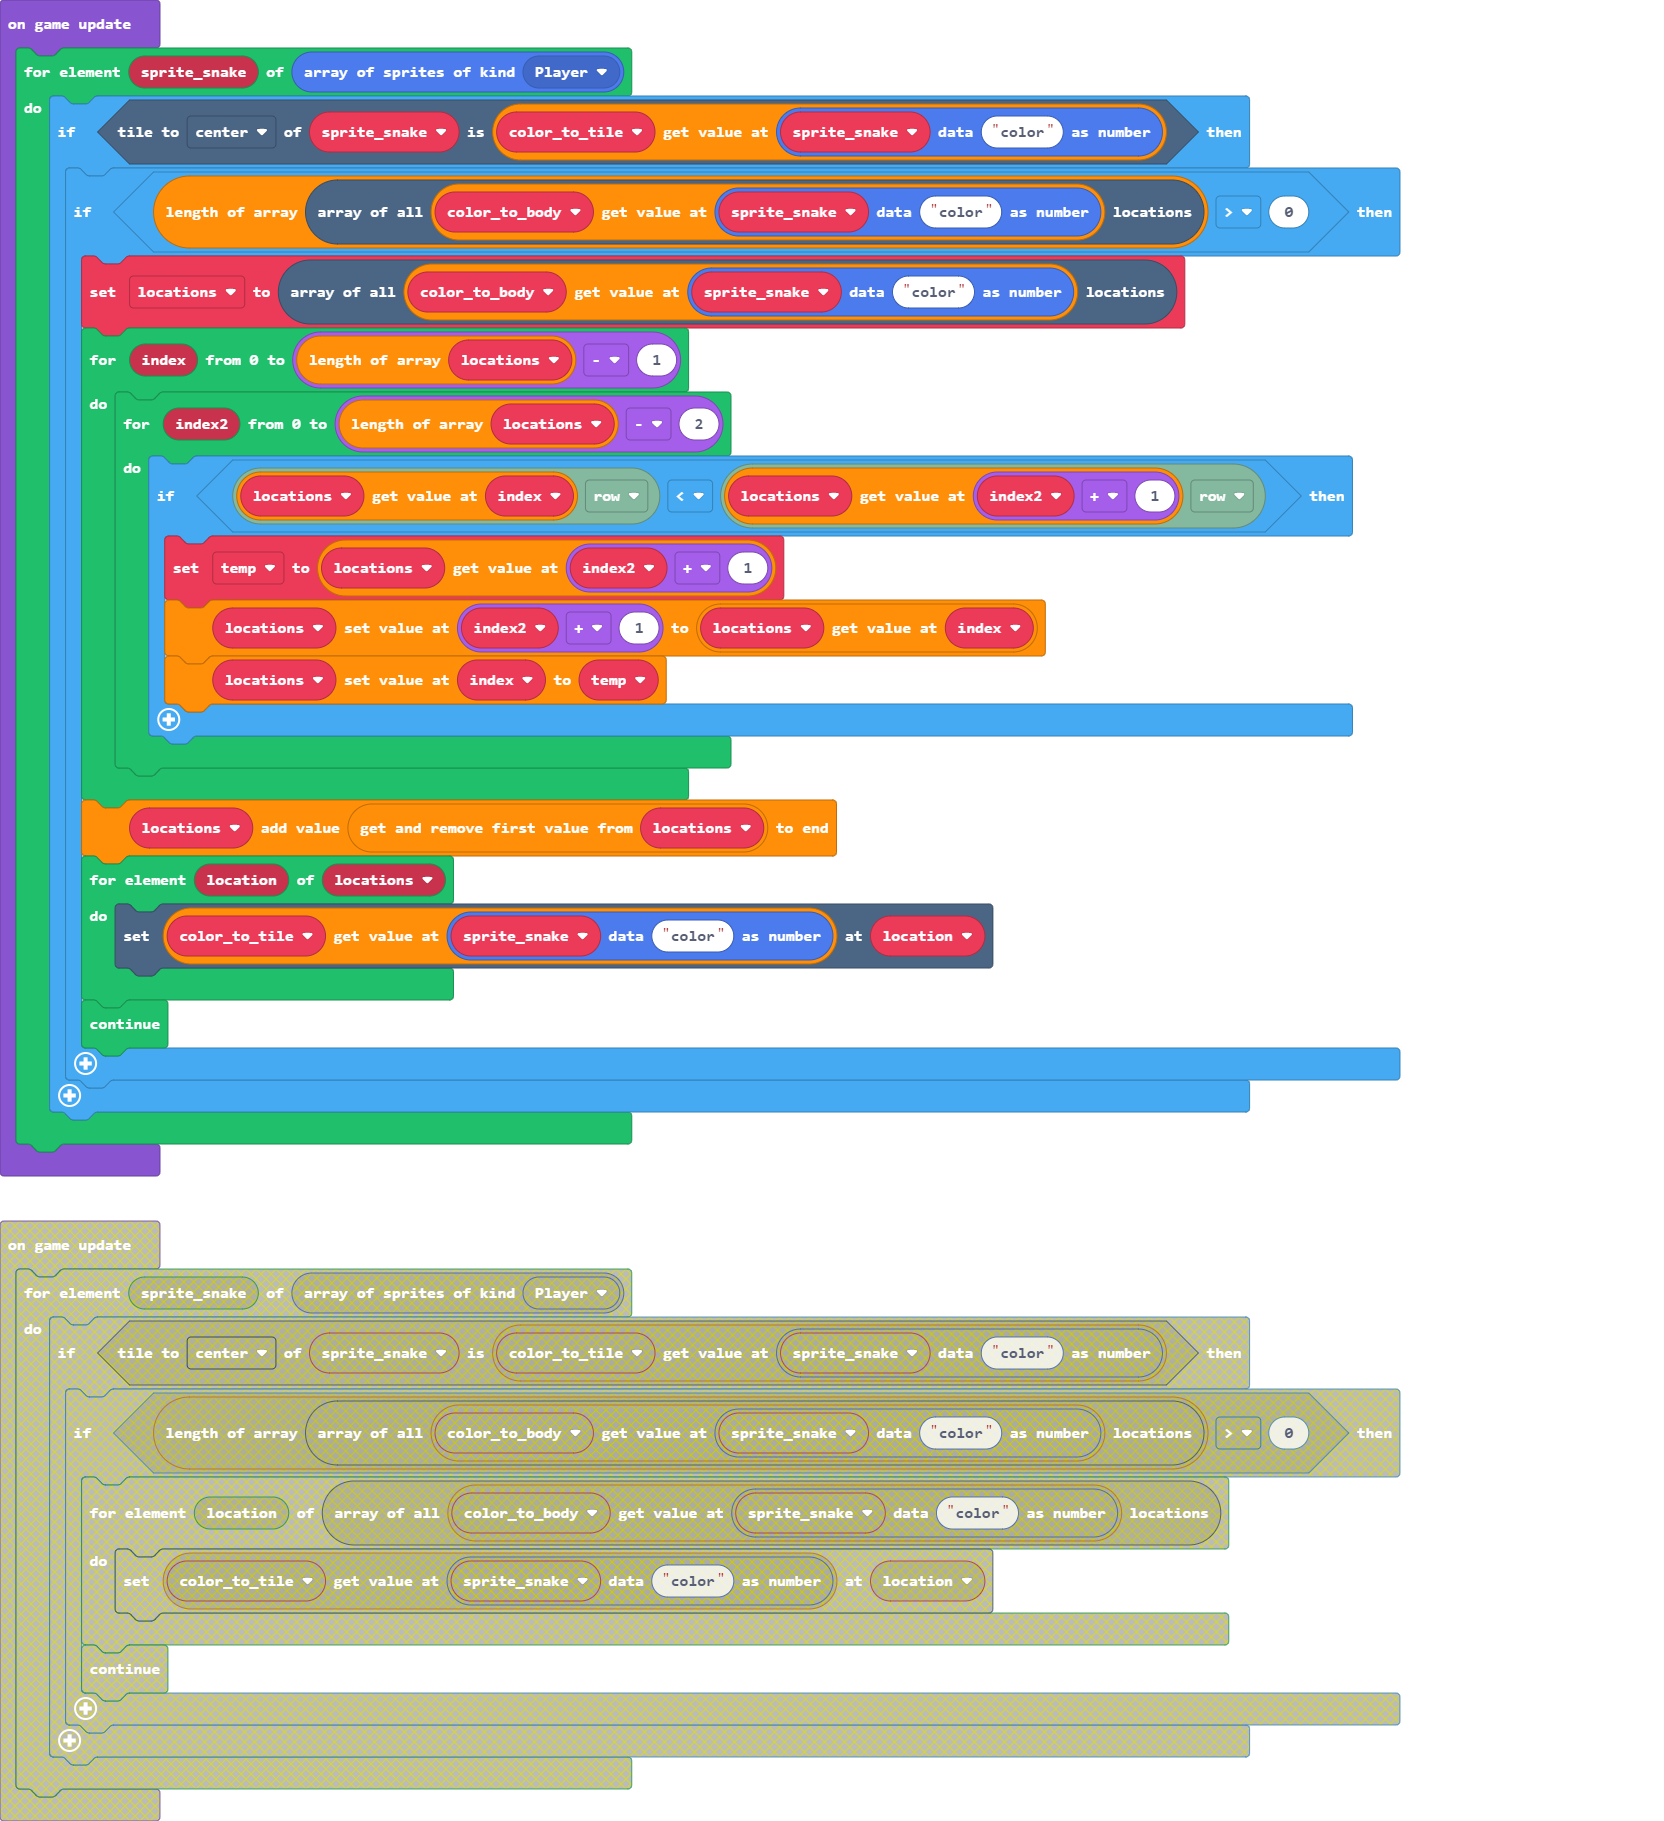
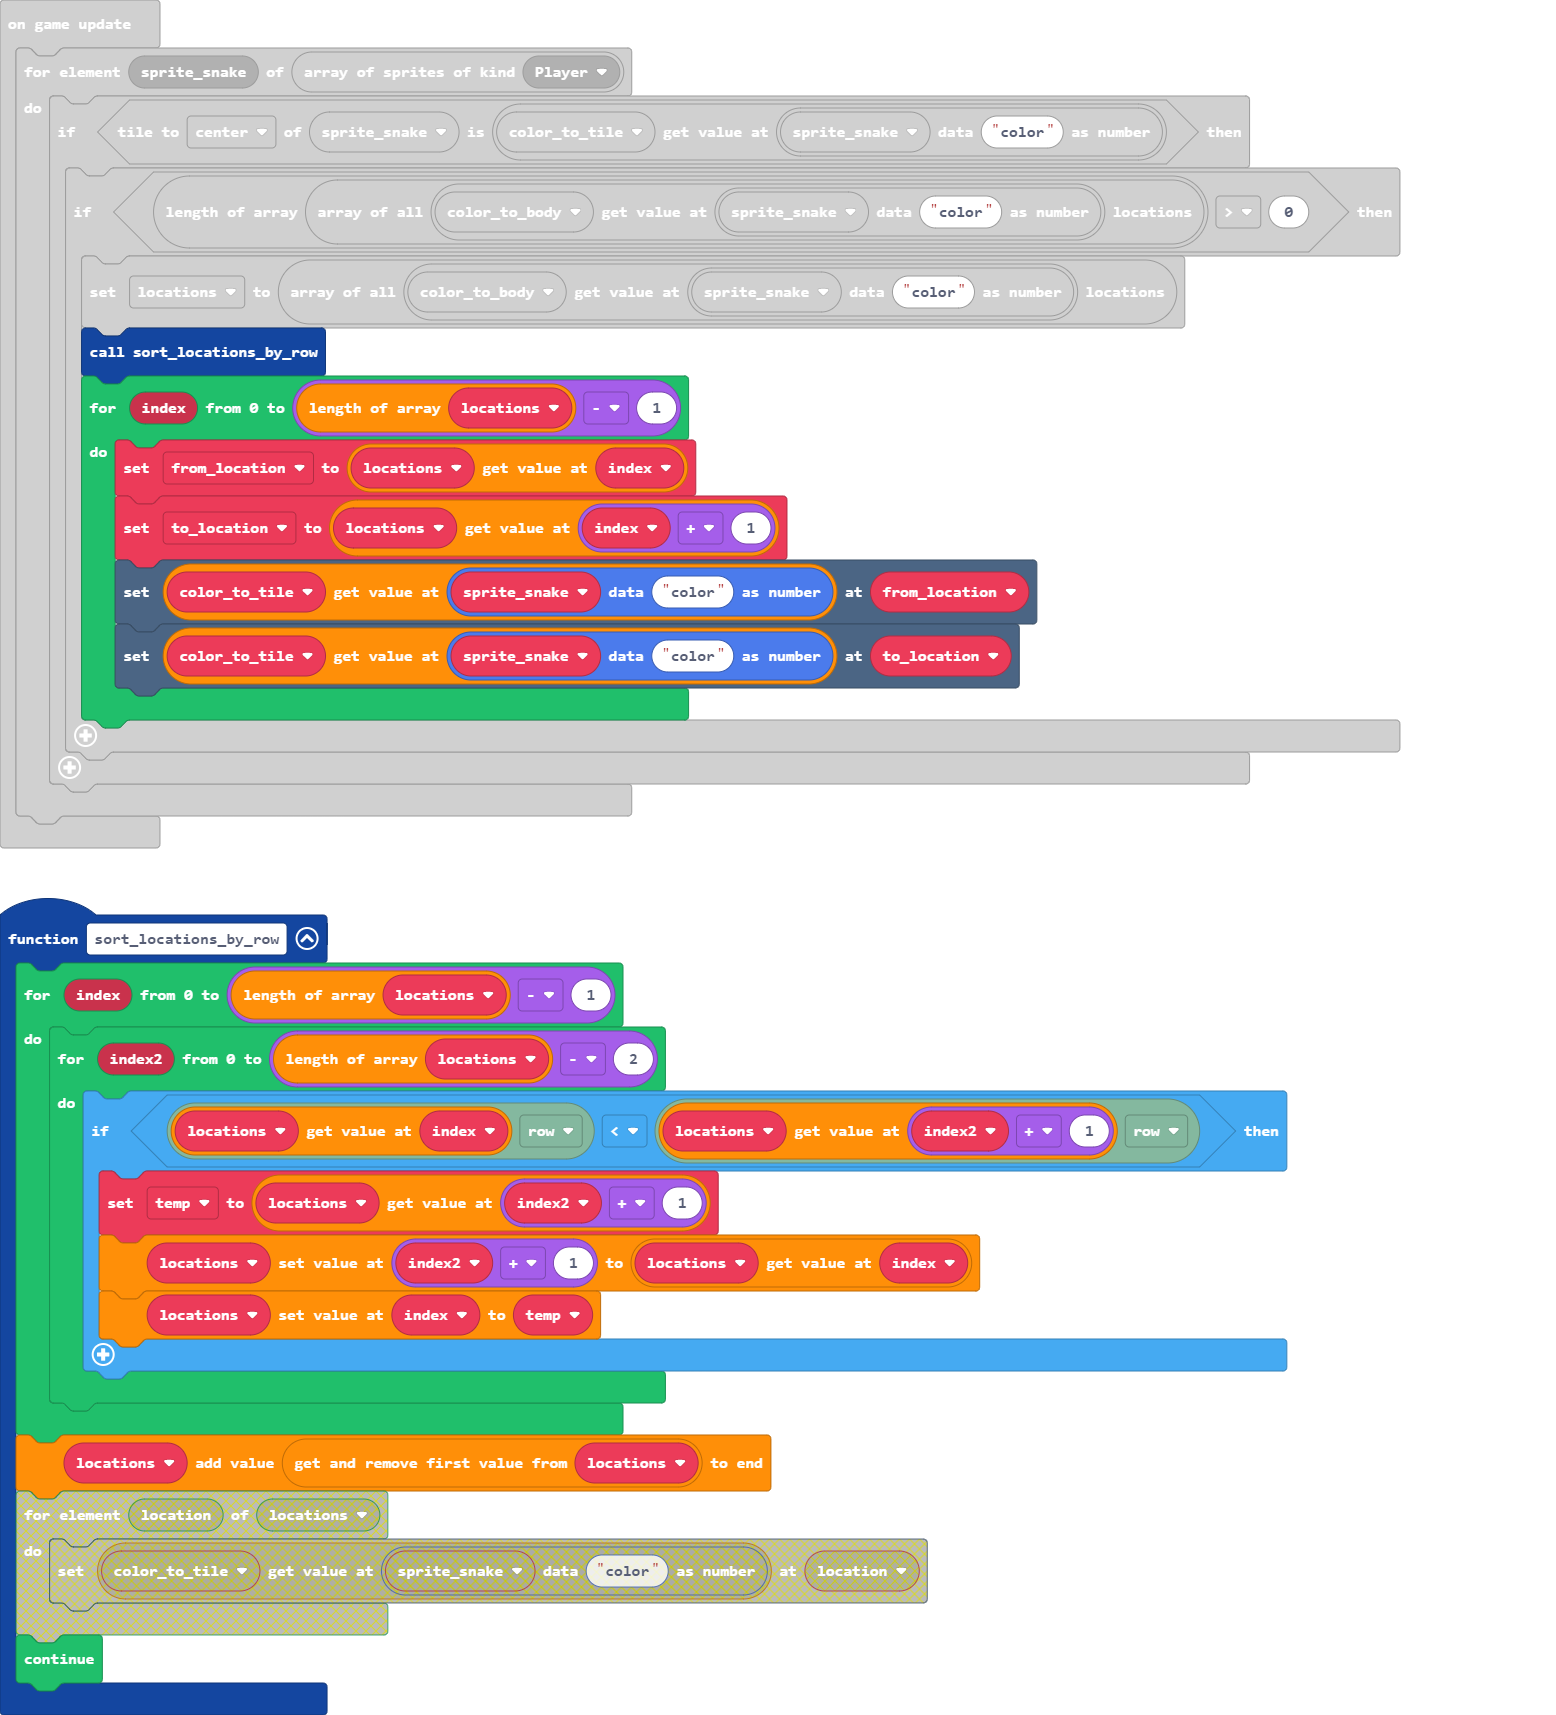
Refactor sorting

diff --git a/main.ts b/main.ts
@@ -85,6 +85,18 @@ controller.left.onEvent(ControllerButtonEvent.Pressed, function () {
         move_snake(sprite_player, true, false)
     }
 })
+function sort_locations_by_row () {
+    for (let index = 0; index <= locations.length - 1; index++) {
+        for (let index2 = 0; index2 <= locations.length - 2; index2++) {
+            if (tiles.locationXY(locations[index], tiles.XY.row) < tiles.locationXY(locations[index2 + 1], tiles.XY.row)) {
+                temp = locations[index2 + 1]
+                locations[index2 + 1] = locations[index]
+                locations[index] = temp
+            }
+        }
+    }
+    locations.push(locations.shift())
+}
 controller.right.onEvent(ControllerButtonEvent.Pressed, function () {
     if (sprite_player) {
         move_snake(sprite_player, true, true)
@@ -132,11 +144,13 @@ function make_tilemap () {
     scene.setBackgroundColor(13)
     tiles.setSmallTilemap(tilemap`tilemap`)
 }
-let temp: tiles.Location = null
-let locations: tiles.Location[] = []
+let to_location: tiles.Location = null
+let from_location: tiles.Location = null
 let sprite_tail: Sprite = null
 let sprite_snake: Sprite = null
 let snake_image: Image = null
+let temp: tiles.Location = null
+let locations: tiles.Location[] = []
 let color_to_body: Image[] = []
 let color_to_tile: Image[] = []
 let tile_traverse_time = 0
@@ -166,18 +180,12 @@ game.onUpdate(function () {
         if (sprite_snake.tileKindAt(TileDirection.Center, color_to_tile[sprites.readDataNumber(sprite_snake, "color")])) {
             if (tiles.getTilesByType(color_to_body[sprites.readDataNumber(sprite_snake, "color")]).length > 0) {
                 locations = tiles.getTilesByType(color_to_body[sprites.readDataNumber(sprite_snake, "color")])
+                sort_locations_by_row()
                 for (let index = 0; index <= locations.length - 1; index++) {
-                    for (let index2 = 0; index2 <= locations.length - 2; index2++) {
-                        if (tiles.locationXY(locations[index], tiles.XY.row) < tiles.locationXY(locations[index2 + 1], tiles.XY.row)) {
-                            temp = locations[index2 + 1]
-                            locations[index2 + 1] = locations[index]
-                            locations[index] = temp
-                        }
-                    }
-                }
-                locations.push(locations.shift())
-                for (let location of locations) {
-                    tiles.setTileAt(location, color_to_tile[sprites.readDataNumber(sprite_snake, "color")])
+                    from_location = locations[index]
+                    to_location = locations[index + 1]
+                    tiles.setTileAt(from_location, color_to_tile[sprites.readDataNumber(sprite_snake, "color")])
+                    tiles.setTileAt(to_location, color_to_tile[sprites.readDataNumber(sprite_snake, "color")])
                 }
                 continue;
             }
